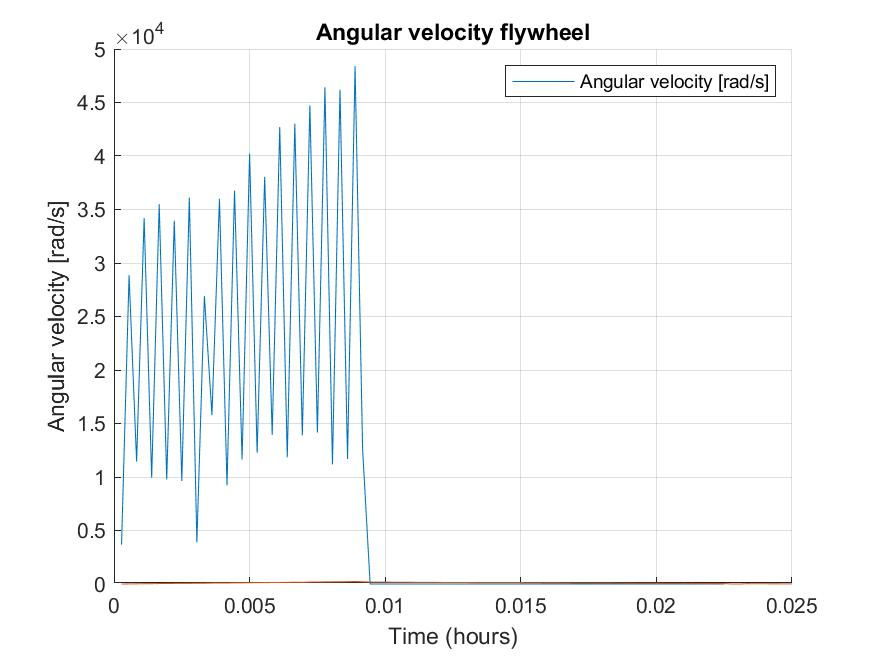
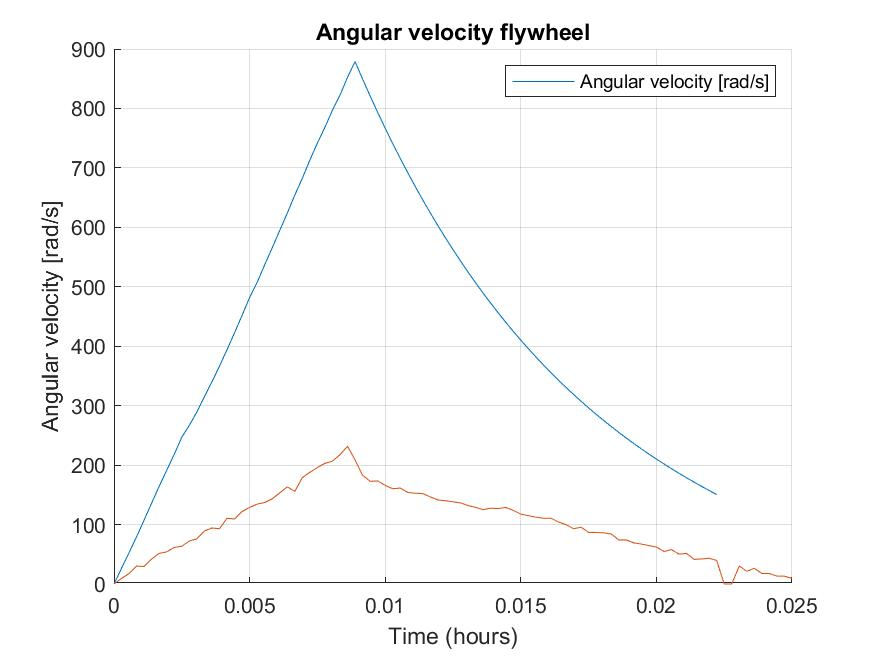
Angular velocity plot changes

diff --git a/main_scale.m b/main_scale.m
@@ -14,15 +14,12 @@ ScaleConstants;
 table_energy = readmatrix(['datasets/CSVfiles/Dataset_2.csv']);
 
 %%% Setting up tables                                                       %Heat vessel table for data logging
-table_flywheel(1,:) = table_energy(1,:)                      
+table_flywheel(1,:) = table_energy(1,:) - table_energy(1,1);                      
 
 %Mass calculations
 m_flywheel = m_disc + m_rod + m_nuts + m_washers;                           %Calculating the mass of the flywheel
-I_flywheel = 0.5 * m_disc * r_disc^2 ;                                      %Moment of inertia with respect to central axis
-
-%Initial energy calculation
-flywheel_energy = 0.5 * I_flywheel * flywheel_angular^2;                    %Starting energy flywheel
-
+I_flywheel = 0.5 * m_disc * r_disc^2 + 0.5 * m_rod * r_rod^2 ;              %Moment of inertia with respect to central axis
+flywheel_energy = 0;
 %%
 %%%%%%%%%%%%%%%%%%%
 % Numerical model %
@@ -32,25 +29,25 @@ for t=table_energy(1,:)
 %Incoming energy
     Column = Column + 1;                                                    %Table time step counter
      
-    flywheel_in = table_energy(2,Column);
-    flywheel_in_joule = flywheel_in*3.6e+6;
+    flywheel_in = table_energy(2,Column)/1000;
+    flywheel_in_joule = flywheel_in*3.6e+3;
     
     %flywheel_losses = pi * flywheel_angular^2 * r_flywheel^4 * d_flywheel * rho_air;
     side_drag = rho_air * A_sides * c_lin;
-    top_drag = 0.5 * rho_air * (r_disc * flywheel_angular)^2 * c_ang * 2 * pi * r_disc;
-    bearing_loss = 0;
-    motor_loss = 0;
+    top_drag = 1/5 * pi * c_lin * rho_air * flywheel_angular^2 * r_disc^5;
+    bearing_loss = 1.05*10^(-4) * (m_rod + m_nuts + m_washers + m_disc) * (0.025/2) * flywheel_angular * 9,5493;
+    motor_loss = (flywheel_in_joule * 0.10);
     extra_loss = 0;
     
     flywheel_losses = side_drag + top_drag + bearing_loss + motor_loss + extra_loss;
-    flywheel_in_joule = flywheel_in_joule - flywheel_losses;
-    flywheel_energy = flywheel_energy + flywheel_in_joule;
+    flywheel_total = flywheel_in_joule - flywheel_losses;
+    flywheel_energy = flywheel_energy + flywheel_total;
     
-    if flywheel_in_joule >= 0
-        dt_flywheel_angular = sqrt((2 * flywheel_in_joule)/(I_flywheel));
+    if flywheel_total >= 0
+        dt_flywheel_angular = sqrt((2 * flywheel_total)/(I_flywheel));
     else
-        flywheel_in_joule = flywheel_in_joule*-1;
-        dt_flywheel_angular = -sqrt((2 * flywheel_in_joule)/(I_flywheel));
+        flywheel_total = flywheel_total*-1;
+        dt_flywheel_angular = -sqrt((2 * flywheel_total)/(I_flywheel));
     end
     
     flywheel_angular = flywheel_angular + dt_flywheel_angular;
@@ -65,7 +62,9 @@ for t=table_energy(1,:)
     table_flywheel(3,Column)=flywheel_energy;                               %Assign value for flywheel energy to table
     table_flywheel(4,Column)=flywheel_in;                                   %Assign value for incomming flywheel energy to table
     table_flywheel(5,Column)=side_drag/3.6e+6;                              %Assign value for energy losses to table 
-    table_flywheel(6,Column)=top_drag/3.6e+6;                               %Assign value for energy losses to table 
+    table_flywheel(6,Column)=top_drag/3.6e+6;
+    table_flywheel(7,Column)=bearing_loss/3.6e+6                            %Assign value for energy losses to table 
+    table_flywheel(8,Column)=motor_loss/3.6e+6
 
 end
 %%

diff --git a/ScaleConstants.m b/ScaleConstants.m
@@ -8,19 +8,20 @@
 %%%Starting values
 time_start = 0;                                                             %Starting time                                                                                        
 flywheel_in = 0;                                                            %Starting inflow energy
-flywheel_angular = 200;                                                     %Starting angular velocity flywheel
+flywheel_angular = 0;                                                       %Starting angular velocity flywheel
 
 m_disc = 1;
-r_disc = 0.075;                                                          %Radius of the flywheel
-d_disc = 0.03;                                                          %Thickness of the flywheel
+r_disc = 0.0675;                                                             %Radius of the flywheel
+d_disc = 0.03;                                                              %Thickness of the flywheel
 rho_flywheel = 7200;                                                        %Density of the material of which the flywheel is made (Cast-iron)
 rho_air = 1.2041;                                                           %Density of air
 c_lin = 1.17;                                                               %linear air drag coefficient
 c_ang = 1;                                                                  %angular drag coefficient
-A_sides = 2 * pi * r_disc * d_disc;                                 %Area of the sides of the flywheel
-A_top = pi * r_disc^2;                                                  %Drag of the top of the main cylinder
-m_rod = 0.36378;                                                                  %mass of the central rod
+A_sides = 2 * pi * r_disc * d_disc;                                         %Area of the sides of the flywheel
+A_top = pi * r_disc^2;                                                      %Drag of the top of the main cylinder
+m_rod = 0.36378;                                                            %mass of the central rod
 r_rod = 0.01;
 m_nuts = 0.19377;
 r_nut = 0;
 m_washers = 0.344;
+ball_bearing_constant = 0.0015;

diff --git a/plotGraphs.m b/plotGraphs.m
@@ -9,6 +9,8 @@ t_var = table_flywheel(1,:);
 Omega_flywheel = table_flywheel(2,:);
 side_drag = table_flywheel(5,:);
 top_drag = table_flywheel(6,:);
+bearing_drag = table_flywheel(7,:);
+motor_drag = table_flywheel(8,:);
 E_energy = table_flywheel(3,:);
 E_inflow = table_flywheel(4,:);
 table_experiment = readmatrix(['datasets/CSVfiles/Dataset_2_angular_velocity.csv']);
@@ -51,9 +53,12 @@ if generate_fig3 == true
     figure(3);grid on
     figure(3); plot(t_var,side_drag);
     figure(3); plot(t_var,top_drag);
+    figure(3); plot(t_var,bearing_drag);
+    figure(4); plot(t_var, motor_drag);
+
 
     figure(3); ylabel('Losses [kW]')
-    figure(3); legend({'Losses due to side drag', 'Losses due to top drag'}, 'Location','northeast')
+    figure(3); legend({'Losses due to side drag', 'Losses due to top drag', 'Losses due to bearing friction', 'Losses due to motor friction'}, 'Location','northeast')
 
     figure(3); xlim([0 0.025]);
     figure(3); xlabel('Time (hours)')

diff --git a/loadConstants.m b/loadConstants.m
@@ -14,7 +14,7 @@ flywheel_angular = 200;                                                     %Sta
 
 r_flywheel = 0.85;                                                          %Radius of the flywheel
 d_flywheel = 0.40;                                                          %Thickness of the flywheel
-rho_flywheel = 1440;                                                        %Density of the material of which the flywheel is made (Cast-iron)
+rho_flywheel = 1440;                                                        %Density of the material of which the flywheel is made (Concrete)
 rho_air = 1.2041;                                                           %Density of air
 c_lin = 1.17;                                                               %linear air drag coefficient
 c_ang = 1;                                                                  %angular drag coefficient
